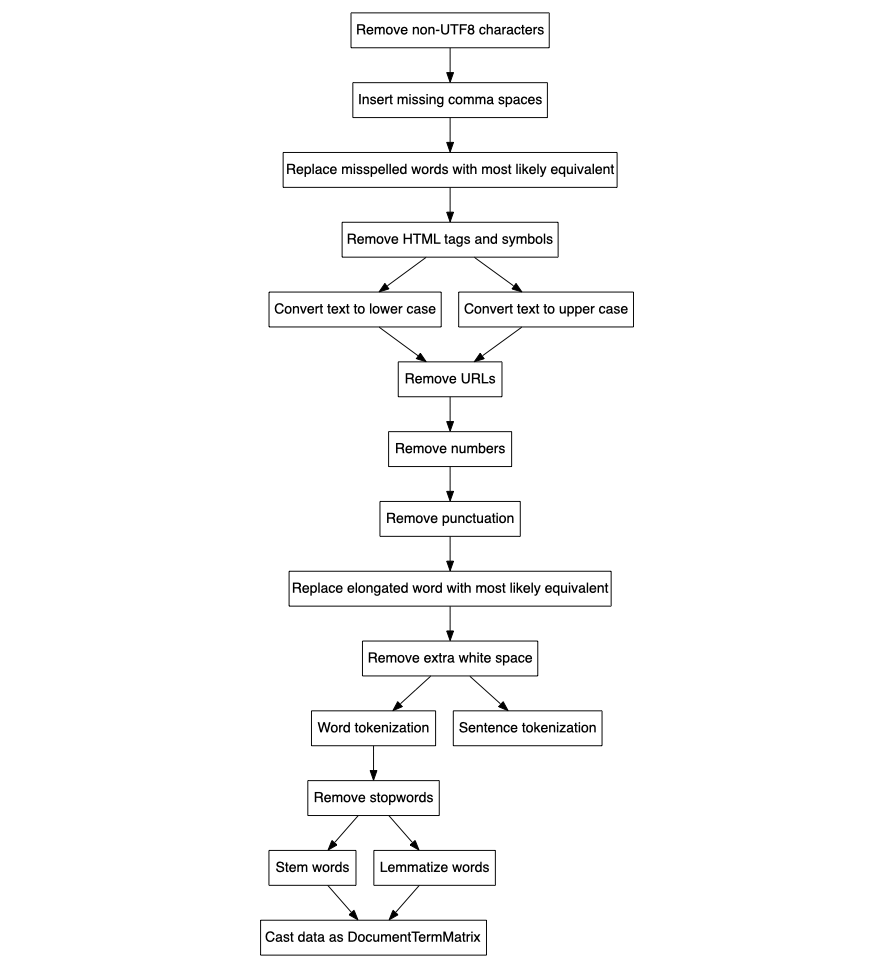
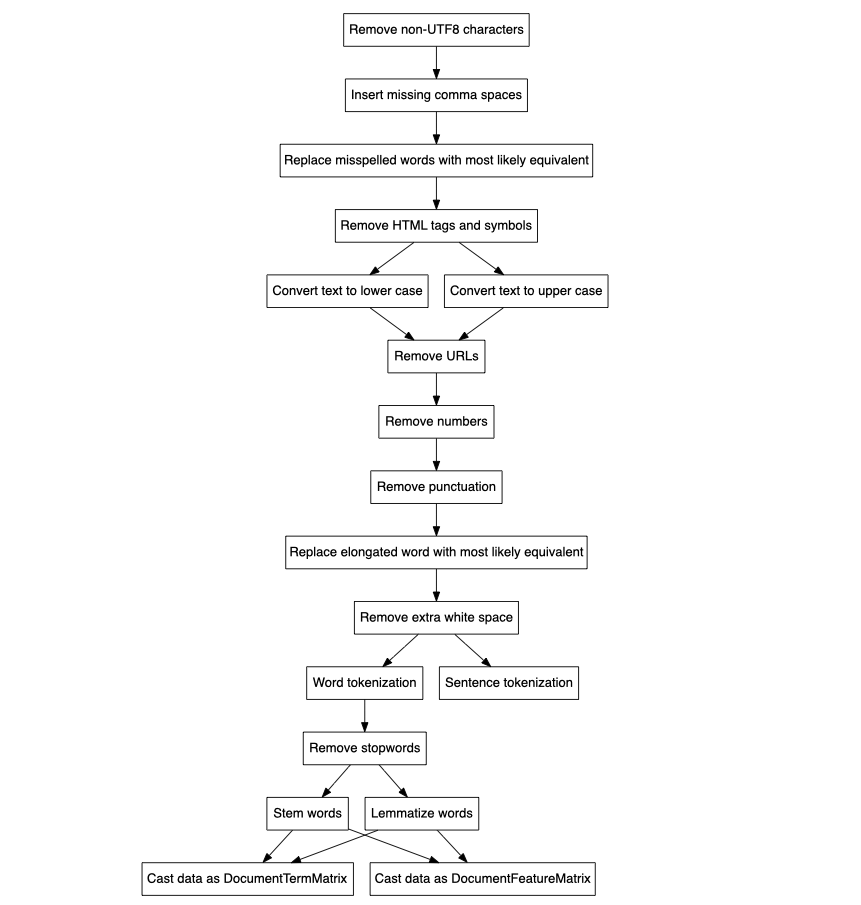
added textprep_tree function

Changed region(s): [[0.151, 0.0, 0.7247, 0.9901]]

diff --git a/README.md b/README.md
@@ -12,7 +12,7 @@ devtools::install_github("alexlusco/compositr")
 
 ## Using compositr
 
-The library consists of two functions: ```textprep```, which does the work of preprocessing and tokenization, and ```get_austen_data```, which provides you with an example dataset to test the function on, pulled from ```library(janeaustenr)```. 
+The library consists of three functions: ```textprep```, which does the work of preprocessing and tokenization, ```textprep_tree```, which generates a visual representation of textprep as a decision tree, and ```get_austen_data```, which provides you with an example dataset to test the function on, pulled from ```library(janeaustenr)```. 
 
 At minimum, ```textprep``` takes a dataframe with text variable. If you plan to cast your text data as a DocumentTermMatrix, you'll also need a document IDs variable (e.g., the name of the book the text is from). The exact name of these variables does not matter. ```textprep``` works by asking you a series of questions in the console about what you want to do to your text data. One of these questions requires a selection from a list, the rest are yes/no questions. The function can be used for basic cleaning operations, for cleaning and tokenization, or just tokenization. What the function does will depend on how you answer the prompts in the console.
 
@@ -28,7 +28,9 @@ library(compositr)
 
 austen_books <- get_austen_data()
 
-austen_book_tokens <- textprep(austen_books, "text", language = "english", outdir = "~/Desktop/austen-project-folder")
+textprep_tree()
+
+austen_book_tokens <- textprep(austen_books, "text", language = "english")
 ```
 
 ## Decision tree
